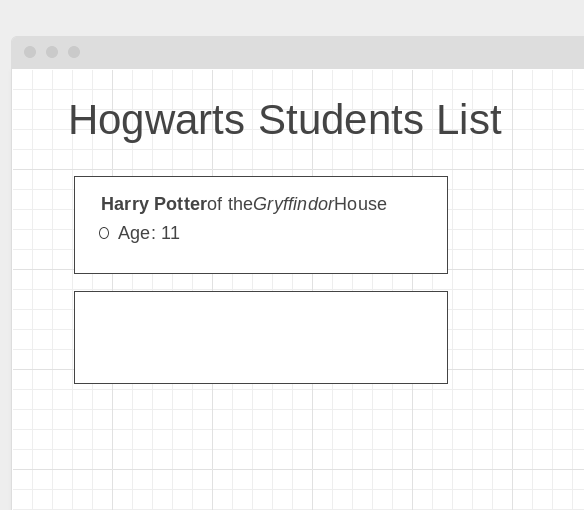
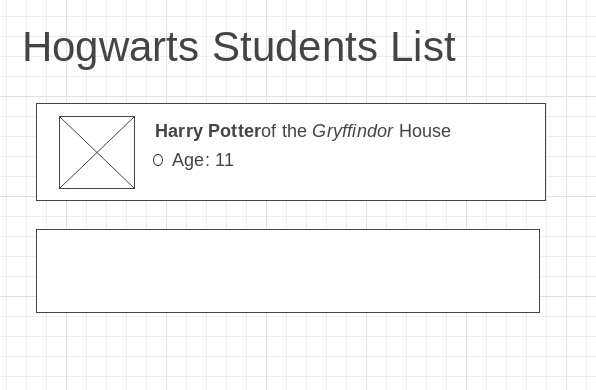
update the design of the students list page, add a house crest image

diff --git a/public/style.css b/public/style.css
@@ -3,6 +3,19 @@ body {
 }
 
 .student-list-item {
-    background-color: forestgreen;
+    width: 350px;
+    background-color: peru;
     border: 1px black;
+    padding: 20px;
+    margin: 15px;
+}
+
+.student-crest-and-name {
+    display: flex;
+}
+
+.crest {
+    width: 50px;
+    height: 50px;
+    margin: 10px;
 }

diff --git a/models/house.rb b/models/house.rb
@@ -1,0 +1,43 @@
+require_relative('../db/sqlrunner')
+
+class House
+
+    attr_accessor :name, :url
+    attr_reader :id
+
+    def initialize(options)
+        @id = options['id'].to_i() if options['id']
+        @name = options['name']
+        @url = options['url']
+        if @id.nil?
+            save
+        end
+    end
+
+    def save()
+        sql = "INSERT INTO houses
+        (name, url) 
+        VALUES ($1, $2) RETURNING id;"
+        values = [@name, @url]
+        @id = SqlRunner.run(sql, values)[0]['id'].to_i()
+    end
+
+    def self.find_by_id(id)
+        sql = "SELECT * FROM houses WHERE id = $1;"
+        values = [id]
+        house_hash_result = SqlRunner.run(sql, values)
+        house_array_result = self.map_house_data(house_hash_result)
+        return house_array_result.first()
+    end
+
+    def self.find_all_houses()
+        sql = "SELECT * FROM houses;"
+        house_hash_result = SqlRunner.run(sql)
+        return self.map_house_data(house_hash_result)
+    end
+
+    def self.map_house_data(house_hash_data)
+        return house_hash_data.map { |house| House.new(house) } 
+    end
+
+end

diff --git a/models/student.rb b/models/student.rb
@@ -39,7 +39,7 @@ class Student
     end
 
     def self.map_student_data(student_hash_data)
-        result = student_hash_data.map { |student| Student.new(student) }
+        return student_hash_data.map { |student| Student.new(student) }
     end
 
     def full_name
